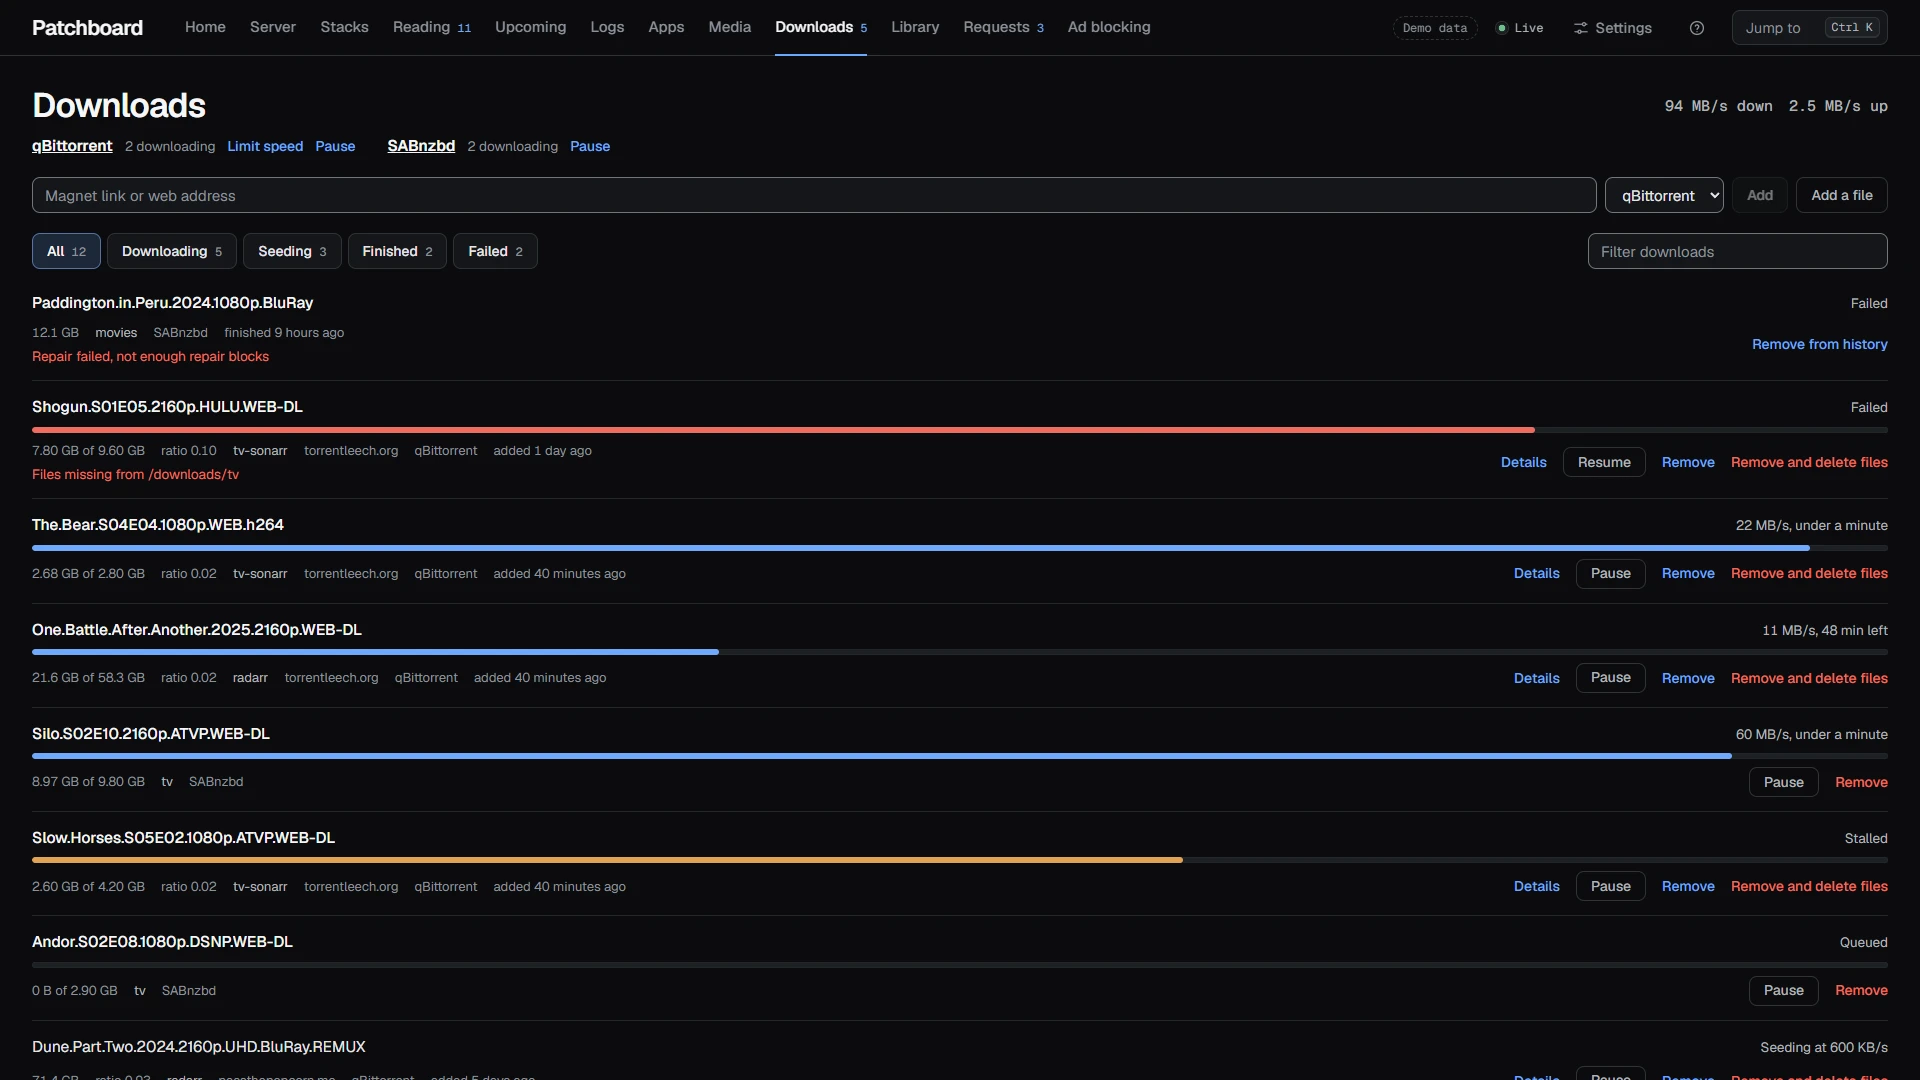
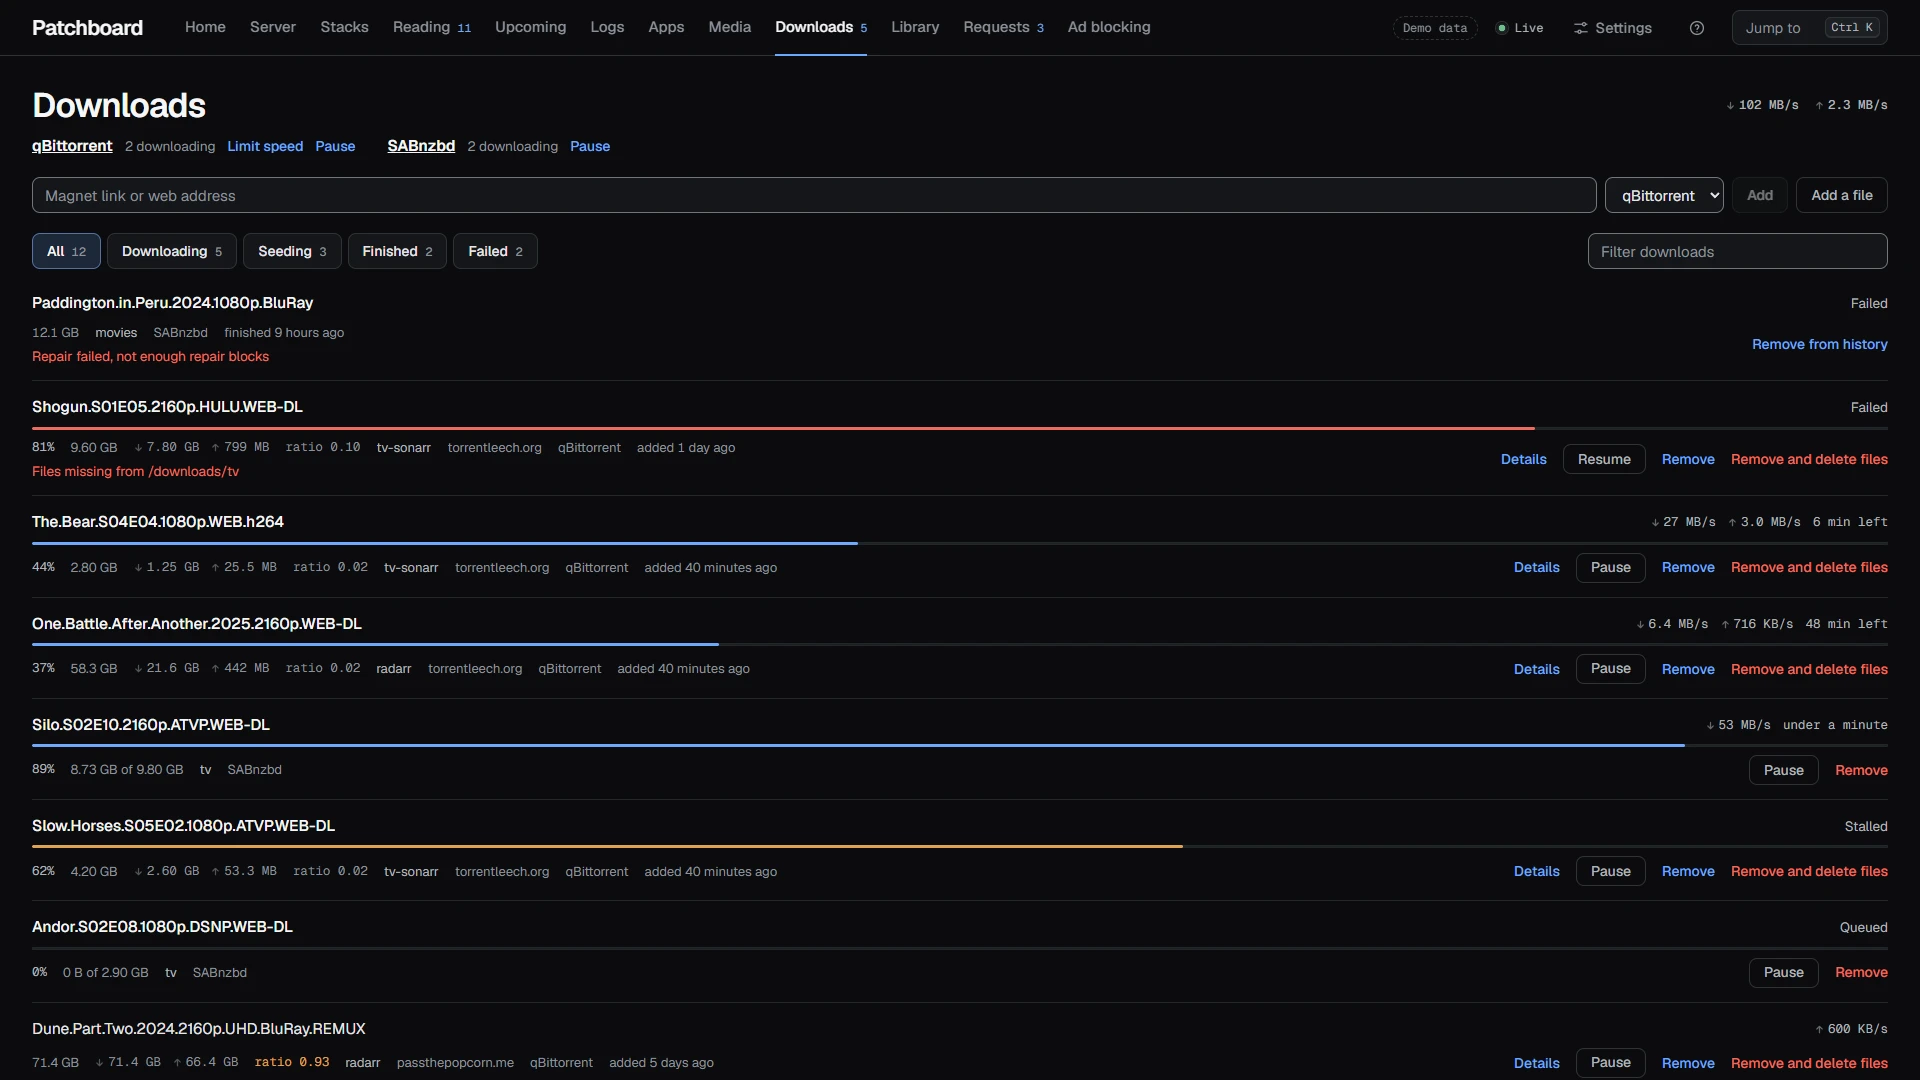
Downloads reads like a torrent client: arrows for down and up, figures in columns, and the ratio in color

diff --git a/web/views/Downloads.tsx b/web/views/Downloads.tsx
@@ -147,8 +147,8 @@ export function Downloads() {
       <div className="page-head">
         <h1 className="page-title">{tr('Downloads')}</h1>
         <p className="dlp-total">
-          <span>{tr('{speed} down', { speed: speed(down) })}</span>
-          {up > 0 && <span>{tr('{speed} up', { speed: speed(up) })}</span>}
+          <Flow dir="down" label={tr('Downloading at')}>{speed(down)}</Flow>
+          {up > 0 && <Flow dir="up" label={tr('Uploading at')}>{speed(up)}</Flow>}
         </p>
       </div>
 
@@ -218,13 +218,21 @@ function EntryRow({ r, many, ro, busy, onAct }: { r: Row; many: boolean; ro: boo
   const canPause = !r.history && ['downloading', 'stalled', 'queued', 'seeding', 'checking'].includes(r.state);
   const canResume = !r.history && (r.state === 'paused' || (r.state === 'errored' && r.kind === 'torrent'));
   const level = r.state === 'errored' ? 'crit' : r.state === 'stalled' ? 'warn' : 'ok';
-  // The one line that says how it's doing: speed and time left while it runs, else its state.
+  // The one line that says how it's doing: speeds and time left while it runs, else its state.
+  const torrent = r.kind === 'torrent';
+  const uploaded = torrent ? (r.uploaded ?? (r.ratio !== undefined ? r.ratio * r.done : undefined)) : undefined;
   const how =
-    r.state === 'downloading'
-      ? [speed(r.down), eta(r.etaSec)].filter(Boolean).join(', ')
-      : r.state === 'seeding'
-        ? tr('Seeding at {speed}', { speed: speed(r.up) })
-        : tr(STATE[r.state]);
+    r.state === 'downloading' ? (
+      <>
+        <Flow dir="down" label={tr('Downloading at')}>{speed(r.down)}</Flow>
+        {r.up > 0 && <Flow dir="up" label={tr('Uploading at')}>{speed(r.up)}</Flow>}
+        {eta(r.etaSec) && <span className="dlp-eta">{eta(r.etaSec)}</span>}
+      </>
+    ) : r.state === 'seeding' && r.up > 0 ? (
+      <Flow dir="up" label={tr('Seeding at')}>{speed(r.up)}</Flow>
+    ) : (
+      tr(STATE[r.state])
+    );
   return (
     <li className={`dlp-row is-${r.state}`}>
       <div className="dlp-head">
@@ -237,8 +245,15 @@ function EntryRow({ r, many, ro, busy, onAct }: { r: Row; many: boolean; ro: boo
       <div className="dlp-foot">
       <div className="dlp-info">
       <div className="dlp-meta">
-        <span>{unfinished ? tr('{done} of {size}', { done: size(r.done), size: size(r.size) }) : size(r.size)}</span>
-        {r.ratio !== undefined && r.kind === 'torrent' && <span>{tr('ratio {n}', { n: r.ratio.toFixed(2) })}</span>}
+        {unfinished && <span className="dlp-pct">{Math.floor(r.progress * 100)}%</span>}
+        <span>{unfinished && !torrent ? tr('{done} of {size}', { done: size(r.done), size: size(r.size) }) : size(r.size)}</span>
+        {torrent && (
+          <span className="dlp-flows">
+            <Flow dir="down" label={tr('Downloaded')}>{size(r.done)}</Flow>
+            {uploaded !== undefined && <Flow dir="up" label={tr('Uploaded')}>{size(uploaded)}</Flow>}
+          </span>
+        )}
+        {r.ratio !== undefined && torrent && <Ratio value={r.ratio} judged={!unfinished} />}
         {r.category && <span className="dlp-tag">{r.category}</span>}
         {r.tracker && <span>{r.tracker}</span>}
         {many && <span>{r.client.label}</span>}
@@ -290,6 +305,32 @@ function EntryRow({ r, many, ro, busy, onAct }: { r: Row; many: boolean; ro: boo
       </div>
       {open && <TorrentPanel r={r} ro={ro} />}
     </li>
+  );
+}
+
+/** A speed or an amount with a small arrow: down is what came in, up is what went out. */
+function Flow({ dir, label, children }: { dir: 'down' | 'up'; label: string; children: string }) {
+  return (
+    <span className={`dlp-flow is-${dir}`}>
+      <svg viewBox="0 0 10 10" width="9" height="9" aria-hidden>
+        <path d={dir === 'down' ? 'M5 1.5v7M2 5.5l3 3 3-3' : 'M5 8.5v-7M2 4.5l3-3 3 3'} />
+      </svg>
+      <span className="sr-only">{label} </span>
+      {children}
+    </span>
+  );
+}
+
+/**
+ * Uploaded over downloaded. 1.00 gives back what it took: green from there,
+ * amber on the way, red well short. Still downloading, it isn't judged yet.
+ */
+function Ratio({ value, judged }: { value: number; judged: boolean }) {
+  const level = !judged ? '' : value >= 1 ? 'is-ok' : value >= 0.5 ? 'is-warn' : 'is-crit';
+  return (
+    <span className={`dlp-ratio ${level}`}>
+      {tr('ratio {n}', { n: value.toFixed(2) })}
+    </span>
   );
 }
 

diff --git a/server/adapters/downloads.ts b/server/adapters/downloads.ts
@@ -113,7 +113,7 @@ export function transmissionClient() {
   const manage: DownloadManager = {
     async list() {
       const { torrents } = await rpc<{ torrents: TrFull[] }>('torrent-get', {
-        fields: ['hashString', 'name', 'status', 'percentDone', 'sizeWhenDone', 'haveValid', 'rateDownload', 'rateUpload', 'eta', 'uploadRatio', 'labels', 'addedDate', 'trackers', 'error', 'errorString'],
+        fields: ['hashString', 'name', 'status', 'percentDone', 'sizeWhenDone', 'haveValid', 'rateDownload', 'rateUpload', 'eta', 'uploadRatio', 'uploadedEver', 'labels', 'addedDate', 'trackers', 'error', 'errorString'],
       });
       return { kind: 'torrent', entries: torrents.map(fromTransmission) };
     },
@@ -184,6 +184,7 @@ interface TrFull {
   rateUpload: number;
   eta: number;
   uploadRatio: number;
+  uploadedEver?: number;
   labels?: string[];
   addedDate: number;
   trackers?: { announce: string }[];
@@ -207,6 +208,7 @@ export function fromTransmission(t: TrFull): DownloadEntry {
     up: t.rateUpload,
     etaSec: eta(t.eta),
     ratio: t.uploadRatio >= 0 ? t.uploadRatio : undefined,
+    ...(t.uploadedEver != null && t.uploadedEver >= 0 ? { uploaded: t.uploadedEver } : {}),
     category: t.labels?.[0],
     added: ms(t.addedDate),
     tracker: trackerHost(t.trackers?.[0]?.announce),
@@ -309,7 +311,7 @@ export function delugeClient() {
     list: () =>
       withLogin(async () => {
         const ui = await call<{ torrents: Record<string, DeFull> }>('web.update_ui', [
-          ['name', 'state', 'progress', 'total_wanted', 'total_done', 'download_payload_rate', 'upload_payload_rate', 'eta', 'ratio', 'label', 'time_added', 'tracker_host', 'message'],
+          ['name', 'state', 'progress', 'total_wanted', 'total_done', 'download_payload_rate', 'upload_payload_rate', 'eta', 'ratio', 'total_uploaded', 'label', 'time_added', 'tracker_host', 'message'],
           {},
         ]);
         return { kind: 'torrent', entries: Object.entries(ui.torrents ?? {}).map(([id, t]) => fromDeluge(id, t)) };
@@ -378,6 +380,7 @@ interface DeFull {
   upload_payload_rate: number;
   eta: number;
   ratio: number;
+  total_uploaded?: number;
   label?: string;
   time_added: number;
   tracker_host?: string;
@@ -400,6 +403,7 @@ export function fromDeluge(id: string, t: DeFull): DownloadEntry {
     up: t.upload_payload_rate,
     etaSec: finished ? -1 : eta(t.eta || -1),
     ratio: t.ratio >= 0 ? t.ratio : undefined,
+    ...(t.total_uploaded != null && t.total_uploaded >= 0 ? { uploaded: t.total_uploaded } : {}),
     category: t.label || undefined,
     added: ms(t.time_added),
     tracker: t.tracker_host || undefined,

diff --git a/web/styles.css b/web/styles.css
@@ -14623,6 +14623,67 @@ html[data-eink][data-eink-color] .led[data-state='ok'] {
   color: var(--ink-2);
 }
 
+/* Figures line up the way a torrent client's columns do. */
+.dlp-eta,
+.dlp-pct,
+.dlp-flow,
+.dlp-ratio {
+  font-family: var(--f-mono);
+  font-size: 12.5px;
+}
+
+.dlp-how {
+  display: inline-flex;
+  flex-wrap: wrap;
+  justify-content: flex-end;
+  gap: 2px 12px;
+}
+
+.dlp-pct {
+  color: var(--ink-2);
+}
+
+.dlp-flows {
+  display: inline-flex;
+  gap: 12px;
+}
+
+.dlp-flow {
+  display: inline-flex;
+  align-items: center;
+  gap: 4px;
+  white-space: nowrap;
+}
+
+.dlp-flow svg {
+  flex: none;
+  fill: none;
+  stroke: currentColor;
+  stroke-width: 1.4;
+  stroke-linecap: round;
+  stroke-linejoin: round;
+  opacity: 0.55;
+}
+
+.dlp-ratio.is-ok {
+  color: var(--ok, var(--accent));
+}
+
+.dlp-ratio.is-warn {
+  color: var(--warn);
+}
+
+.dlp-ratio.is-crit {
+  color: var(--crit);
+}
+
+/* A download's bar is a thin line under its name. */
+.dlp-row .meter,
+.dlp-row .meter > span {
+  height: 3px;
+  border-radius: 2px;
+}
+
 /* Details on the left, what you can do on the right: one line on a wide screen. */
 .dlp-foot {
   display: flex;
@@ -14668,6 +14729,10 @@ html[data-eink][data-eink-color] .led[data-state='ok'] {
   .dlp-head {
     flex-direction: column;
     gap: 2px;
+  }
+
+  .dlp-how {
+    justify-content: flex-start;
   }
 }
 

diff --git a/server/test/download-manage.test.ts b/server/test/download-manage.test.ts
@@ -33,6 +33,12 @@ test('every client says the same thing about a download in its own words', () =>
   assert.equal(fromDeluge('x', { ...de, state: 'Paused', progress: 40 }).state, 'paused');
   assert.equal(fromDeluge('x', { ...de, state: 'Error', message: 'Disk full' }).error, 'Disk full');
 
+  // What each torrent gave back, for the arrow up beside its ratio.
+  assert.equal(fromQbit({ ...base, state: 'uploading', uploaded: 3 * GB }).uploaded, 3 * GB);
+  assert.equal(fromTransmission({ ...tr, status: 6, uploadedEver: GB }).uploaded, GB);
+  assert.equal(fromDeluge('x', { ...de, state: 'Seeding', total_uploaded: 2 * GB }).uploaded, 2 * GB);
+  assert.equal(fromQbit({ ...base, state: 'uploading' }).uploaded, undefined);
+
   const sab = fromSabQueue({ nzo_id: 'a', filename: 'n', percentage: '25', mb: '1024', mbleft: '768', timeleft: '0:10:00', status: 'Downloading', cat: '*' }, 5e6, false);
   assert.deepEqual([sab.state, sab.etaSec, sab.done, sab.category], ['downloading', 600, 256 * 1024 * 1024, undefined]);
   assert.equal(fromSabQueue({ nzo_id: 'a', filename: 'n', percentage: '25', mb: '1', mbleft: '1', timeleft: '0:00:00', status: 'Queued' }, 0, true).state, 'paused');

diff --git a/server/adapters/qbit.ts b/server/adapters/qbit.ts
@@ -46,6 +46,7 @@ interface QbitFull extends Torrent {
   completed: number;
   upspeed: number;
   ratio: number;
+  uploaded?: number;
   category: string;
   added_on: number;
   tracker: string;
@@ -80,6 +81,7 @@ export function fromQbit(t: QbitFull): DownloadEntry {
     up: t.upspeed,
     etaSec: finished || t.eta >= 8_640_000 ? -1 : t.eta,
     ratio: t.ratio >= 0 ? t.ratio : undefined,
+    ...(t.uploaded != null && t.uploaded >= 0 ? { uploaded: t.uploaded } : {}),
     category: t.category || undefined,
     added: t.added_on ? t.added_on * 1000 : undefined,
     tracker: trackerHost(t.tracker),

diff --git a/shared/types.ts b/shared/types.ts
@@ -1318,6 +1318,8 @@ export interface DownloadEntry {
   etaSec: number;
   /** Uploaded over downloaded, for a torrent. */
   ratio?: number;
+  /** Bytes uploaded in all, for a torrent. */
+  uploaded?: number;
   category?: string;
   /** When it was added, in ms. */
   added?: number;

diff --git a/docs/TOUR.md b/docs/TOUR.md
@@ -230,8 +230,9 @@ tonight's moon. Countdown counts the days to the dates you name.
 ![Bookmarks, Search, Clocks, Feeds and Releases on the board](screenshots/everyday.webp)
 
 **Downloads:** everything in qBittorrent, Transmission, Deluge, SABnzbd and
-NZBGet on one list, running or failed first: progress, speed, time left,
-size, ratio, category and tracker. Filter by what it's doing or by name.
+NZBGet on one list, running or failed first: progress, speeds down and
+up, time left, size, what each torrent took and gave back, its ratio,
+category and tracker. Filter by what it's doing or by name.
 Pause and resume are a tap; remove is a hold, and a torrent can go with
 its files or without them. Paste a magnet link or a web address, or add a
 .torrent or .nzb file; Patchboard sends it to the client that takes it.

diff --git a/CHANGELOG.md b/CHANGELOG.md
@@ -5,6 +5,9 @@
 - **Open a library** on the Media page: its episodes or tracks, the folders
   it reads, and what came in last, with posters that open in Plex or
   Jellyfin. A show's new episodes share one poster with how many came in.
+- **Downloads reads like a torrent client:** small arrows mark speeds and
+  totals down and up, figures line up in columns, the bar is a thin line,
+  and a finished torrent's ratio turns green at 1.00.
 - **Save says whether it connects:** saving an app in Settings,
   Connections tests it and shows what it found or why it failed.
 - **Fixes:**
